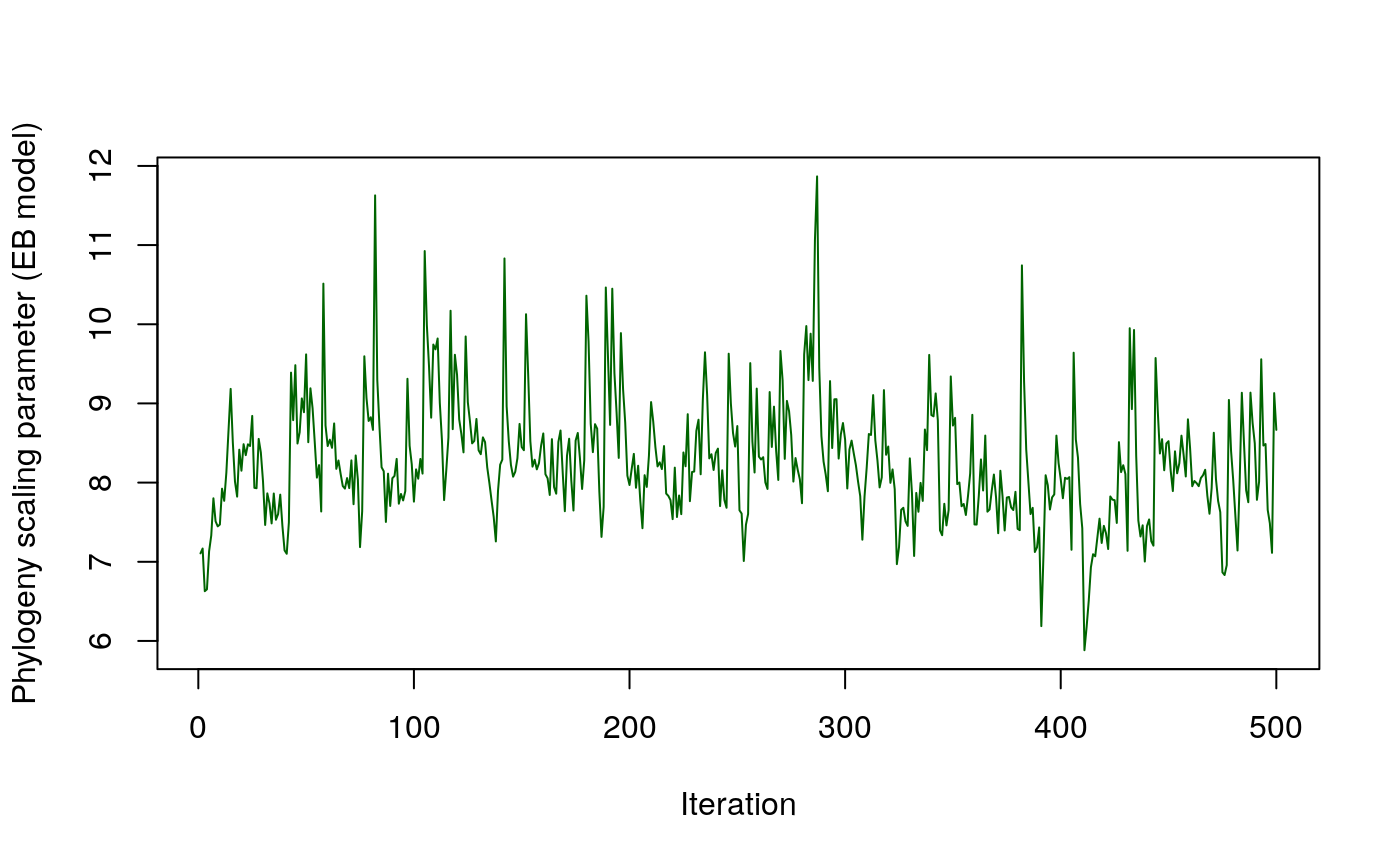
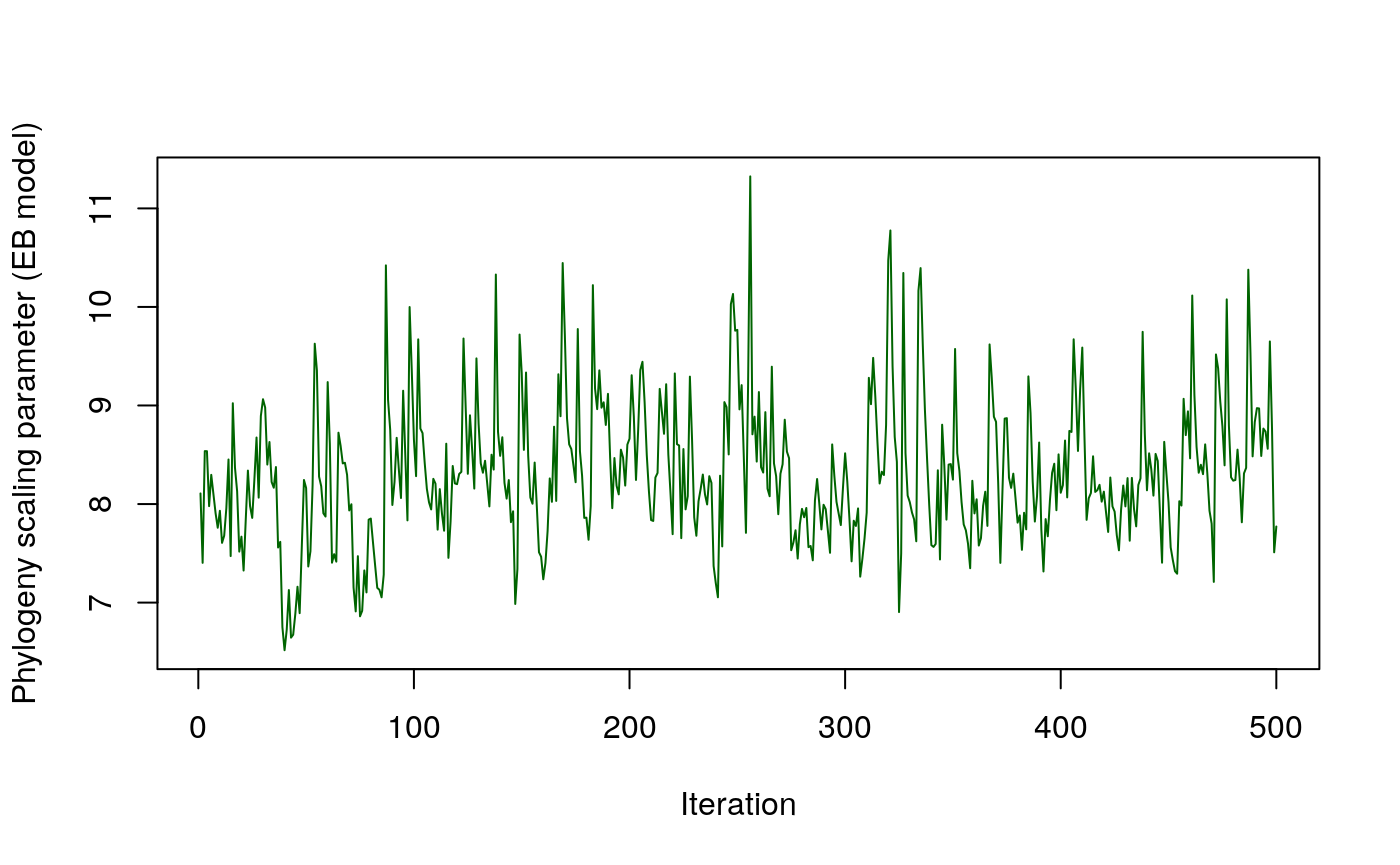
typos

diff --git a/docs/articles/HPprediction.html b/docs/articles/HPprediction.html
@@ -71,7 +71,7 @@
       <h1>Introduction to Elmasri et al.(2020) Host-Parasite Link Prediction Package</h1>
                         <h4 class="author">Maxwell J. Farrell &amp; Mohamad Elmasri</h4>
             
-            <h4 class="date">April 24 2020</h4>
+            <h4 class="date">April 28 2020</h4>
       
       <small class="dont-index">Source: <a href="https://github.com/melmasri/HPprediction/blob/master/vignettes/HPprediction.Rmd"><code>vignettes/HPprediction.Rmd</code></a></small>
       <div class="hidden name"><code>HPprediction.Rmd</code></div>
@@ -145,24 +145,24 @@
 <a class="sourceLine" id="cb6-2" title="2"><span class="co">#&gt; [1] "Running full model..."</span></a>
 <a class="sourceLine" id="cb6-3" title="3"><span class="co">#&gt; [1] "Run for 1000 slices with 500 burn-ins"</span></a>
 <a class="sourceLine" id="cb6-4" title="4"><span class="co">#&gt; [1] "Matrix dimension: 70 x 442"</span></a>
-<a class="sourceLine" id="cb6-5" title="5"><span class="co">#&gt; [1] "slice: 200, at 2020-04-24 14:01:47"</span></a>
-<a class="sourceLine" id="cb6-6" title="6"><span class="co">#&gt; [1] "slice: 400, at 2020-04-24 14:01:51"</span></a>
-<a class="sourceLine" id="cb6-7" title="7"><span class="co">#&gt; [1] "slice: 600, at 2020-04-24 14:01:55"</span></a>
-<a class="sourceLine" id="cb6-8" title="8"><span class="co">#&gt; [1] "slice: 800, at 2020-04-24 14:01:59"</span></a>
-<a class="sourceLine" id="cb6-9" title="9"><span class="co">#&gt; [1] "slice: 1000, at 2020-04-24 14:02:02"</span></a>
+<a class="sourceLine" id="cb6-5" title="5"><span class="co">#&gt; [1] "slice: 200, at 2020-04-28 21:43:02"</span></a>
+<a class="sourceLine" id="cb6-6" title="6"><span class="co">#&gt; [1] "slice: 400, at 2020-04-28 21:43:08"</span></a>
+<a class="sourceLine" id="cb6-7" title="7"><span class="co">#&gt; [1] "slice: 600, at 2020-04-28 21:43:15"</span></a>
+<a class="sourceLine" id="cb6-8" title="8"><span class="co">#&gt; [1] "slice: 800, at 2020-04-28 21:43:21"</span></a>
+<a class="sourceLine" id="cb6-9" title="9"><span class="co">#&gt; [1] "slice: 1000, at 2020-04-28 21:43:28"</span></a>
 <a class="sourceLine" id="cb6-10" title="10"><span class="co">#&gt; [1] "Done!"</span></a>
 <a class="sourceLine" id="cb6-11" title="11"><span class="kw"><a href="https://www.rdocumentation.org/packages/utils/topics/str">str</a></span>(out)</a>
 <a class="sourceLine" id="cb6-12" title="12"><span class="co">#&gt; List of 3</span></a>
 <a class="sourceLine" id="cb6-13" title="13"><span class="co">#&gt;  $ param:List of 6</span></a>
-<a class="sourceLine" id="cb6-14" title="14"><span class="co">#&gt;   ..$ w      : num [1:442, 1:500] 1.57 1.6 1.75 1.7 1.96 ...</span></a>
-<a class="sourceLine" id="cb6-15" title="15"><span class="co">#&gt;   ..$ y      : num [1:70, 1:500] 0.261 6.599 0.579 1.724 3.355 ...</span></a>
-<a class="sourceLine" id="cb6-16" title="16"><span class="co">#&gt;   ..$ eta    : num [1:500] 7.11 7.17 6.63 6.65 7.13 ...</span></a>
+<a class="sourceLine" id="cb6-14" title="14"><span class="co">#&gt;   ..$ w      : num [1:442, 1:500] 1.259 1.248 0.621 1.097 1.335 ...</span></a>
+<a class="sourceLine" id="cb6-15" title="15"><span class="co">#&gt;   ..$ y      : num [1:70, 1:500] 0.441 11.398 1.097 3.013 6.011 ...</span></a>
+<a class="sourceLine" id="cb6-16" title="16"><span class="co">#&gt;   ..$ eta    : num [1:500] 8.11 7.4 8.54 8.54 7.98 ...</span></a>
 <a class="sourceLine" id="cb6-17" title="17"><span class="co">#&gt;   ..$ g      : NULL</span></a>
 <a class="sourceLine" id="cb6-18" title="18"><span class="co">#&gt;   ..$ burn.in: num 500</span></a>
 <a class="sourceLine" id="cb6-19" title="19"><span class="co">#&gt;   ..$ sd     :List of 3</span></a>
-<a class="sourceLine" id="cb6-20" title="20"><span class="co">#&gt;   .. ..$ w  : num [1:442] 2.1 2.03 2.11 2.05 2.04 ...</span></a>
-<a class="sourceLine" id="cb6-21" title="21"><span class="co">#&gt;   .. ..$ y  : num [1:70] 1.09 5.12 1.75 2.6 3.78 ...</span></a>
-<a class="sourceLine" id="cb6-22" title="22"><span class="co">#&gt;   .. ..$ eta: num 0.681</span></a>
+<a class="sourceLine" id="cb6-20" title="20"><span class="co">#&gt;   .. ..$ w  : num [1:442] 1.96 2 2.14 1.98 2.05 ...</span></a>
+<a class="sourceLine" id="cb6-21" title="21"><span class="co">#&gt;   .. ..$ y  : num [1:70] 1.35 6.95 2.27 3.27 4.99 ...</span></a>
+<a class="sourceLine" id="cb6-22" title="22"><span class="co">#&gt;   .. ..$ eta: num 0.808</span></a>
 <a class="sourceLine" id="cb6-23" title="23"><span class="co">#&gt;  $ Z    : num [1:70, 1:442] 0 0 0 0 0 0 0 0 0 0 ...</span></a>
 <a class="sourceLine" id="cb6-24" title="24"><span class="co">#&gt;   ..- attr(*, "dimnames")=List of 2</span></a>
 <a class="sourceLine" id="cb6-25" title="25"><span class="co">#&gt;   .. ..$ : chr [1:70] "Addax_nasomaculatus" "Oryx_gazella" "Hippotragus_equinus" "Hippotragus_niger" ...</span></a>
@@ -199,27 +199,27 @@
 <a href="#identfying-top-predicted-links-with-no-documentation" class="anchor"></a>Identfying top predicted links with no documentation</h3>
 <div class="sourceCode" id="cb11"><pre class="sourceCode r"><code class="sourceCode r"><a class="sourceLine" id="cb11-1" title="1"><span class="kw"><a href="../reference/topPairs.html">topPairs</a></span>(P, out<span class="op">$</span>Z)</a>
 <a class="sourceLine" id="cb11-2" title="2"><span class="co">#&gt;                          Hosts                                Parasites</span></a>
-<a class="sourceLine" id="cb11-3" title="3"><span class="co">#&gt; 28449       Aepyceros_melampus                        Toxoplasma gondii</span></a>
-<a class="sourceLine" id="cb11-4" title="4"><span class="co">#&gt; 22003      Rupicapra_rupicapra                    Rhipicephalus evertsi</span></a>
-<a class="sourceLine" id="cb11-5" title="5"><span class="co">#&gt; 19763      Rupicapra_rupicapra Pestivirus Bovine viral diarrhea virus 1</span></a>
-<a class="sourceLine" id="cb11-6" title="6"><span class="co">#&gt; 27819       Aepyceros_melampus                Teladorsagia circumcincta</span></a>
-<a class="sourceLine" id="cb11-7" title="7"><span class="co">#&gt; 29073      Rupicapra_rupicapra              Trichostrongylus falculatus</span></a>
-<a class="sourceLine" id="cb11-8" title="8"><span class="co">#&gt; 16409       Aepyceros_melampus                    Nematodirus spathiger</span></a>
+<a class="sourceLine" id="cb11-3" title="3"><span class="co">#&gt; 22003      Rupicapra_rupicapra                    Rhipicephalus evertsi</span></a>
+<a class="sourceLine" id="cb11-4" title="4"><span class="co">#&gt; 28449       Aepyceros_melampus                        Toxoplasma gondii</span></a>
+<a class="sourceLine" id="cb11-5" title="5"><span class="co">#&gt; 27819       Aepyceros_melampus                Teladorsagia circumcincta</span></a>
+<a class="sourceLine" id="cb11-6" title="6"><span class="co">#&gt; 29073      Rupicapra_rupicapra              Trichostrongylus falculatus</span></a>
+<a class="sourceLine" id="cb11-7" title="7"><span class="co">#&gt; 16409       Aepyceros_melampus                    Nematodirus spathiger</span></a>
+<a class="sourceLine" id="cb11-8" title="8"><span class="co">#&gt; 19763      Rupicapra_rupicapra Pestivirus Bovine viral diarrhea virus 1</span></a>
 <a class="sourceLine" id="cb11-9" title="9"><span class="co">#&gt; 1843       Rupicapra_rupicapra                       Bacillus anthracis</span></a>
-<a class="sourceLine" id="cb11-10" title="10"><span class="co">#&gt; 10383      Rupicapra_rupicapra                     Impalaia tuberculata</span></a>
-<a class="sourceLine" id="cb11-11" title="11"><span class="co">#&gt; 28835 Tragelaphus_strepsiceros                    Trichostrongylus axei</span></a>
-<a class="sourceLine" id="cb11-12" title="12"><span class="co">#&gt; 28975 Tragelaphus_strepsiceros           Trichostrongylus colubriformis</span></a>
+<a class="sourceLine" id="cb11-10" title="10"><span class="co">#&gt; 28835 Tragelaphus_strepsiceros                    Trichostrongylus axei</span></a>
+<a class="sourceLine" id="cb11-11" title="11"><span class="co">#&gt; 10383      Rupicapra_rupicapra                     Impalaia tuberculata</span></a>
+<a class="sourceLine" id="cb11-12" title="12"><span class="co">#&gt; 27855 Tragelaphus_strepsiceros                Teladorsagia circumcincta</span></a>
 <a class="sourceLine" id="cb11-13" title="13"><span class="co">#&gt;               p</span></a>
-<a class="sourceLine" id="cb11-14" title="14"><span class="co">#&gt; 28449 0.4929885</span></a>
-<a class="sourceLine" id="cb11-15" title="15"><span class="co">#&gt; 22003 0.4886306</span></a>
-<a class="sourceLine" id="cb11-16" title="16"><span class="co">#&gt; 19763 0.4633080</span></a>
-<a class="sourceLine" id="cb11-17" title="17"><span class="co">#&gt; 27819 0.4617923</span></a>
-<a class="sourceLine" id="cb11-18" title="18"><span class="co">#&gt; 29073 0.4591450</span></a>
-<a class="sourceLine" id="cb11-19" title="19"><span class="co">#&gt; 16409 0.4399789</span></a>
-<a class="sourceLine" id="cb11-20" title="20"><span class="co">#&gt; 1843  0.4313757</span></a>
-<a class="sourceLine" id="cb11-21" title="21"><span class="co">#&gt; 10383 0.4274391</span></a>
-<a class="sourceLine" id="cb11-22" title="22"><span class="co">#&gt; 28835 0.4243908</span></a>
-<a class="sourceLine" id="cb11-23" title="23"><span class="co">#&gt; 28975 0.4088494</span></a></code></pre></div>
+<a class="sourceLine" id="cb11-14" title="14"><span class="co">#&gt; 22003 0.4950395</span></a>
+<a class="sourceLine" id="cb11-15" title="15"><span class="co">#&gt; 28449 0.4809607</span></a>
+<a class="sourceLine" id="cb11-16" title="16"><span class="co">#&gt; 27819 0.4697782</span></a>
+<a class="sourceLine" id="cb11-17" title="17"><span class="co">#&gt; 29073 0.4515099</span></a>
+<a class="sourceLine" id="cb11-18" title="18"><span class="co">#&gt; 16409 0.4427870</span></a>
+<a class="sourceLine" id="cb11-19" title="19"><span class="co">#&gt; 19763 0.4418728</span></a>
+<a class="sourceLine" id="cb11-20" title="20"><span class="co">#&gt; 1843  0.4289917</span></a>
+<a class="sourceLine" id="cb11-21" title="21"><span class="co">#&gt; 28835 0.4251196</span></a>
+<a class="sourceLine" id="cb11-22" title="22"><span class="co">#&gt; 10383 0.4174443</span></a>
+<a class="sourceLine" id="cb11-23" title="23"><span class="co">#&gt; 27855 0.4051877</span></a></code></pre></div>
 </div>
 </div>
 <div id="general-approach-to-running-the-model-with-5-fold-cross-validation" class="section level2">

diff --git a/docs/index.html b/docs/index.html
@@ -75,7 +75,7 @@
 <div class="page-header"><h1 class="hasAnchor">
 <a href="#hpprediction" class="anchor"></a>HPprediction</h1></div>
 <p>This package implements the code and method associated with paper</p>
-<p>Elmasri, M., Farrell, M. J., Davies, T. J., &amp; Stephens, D. A. (2020). A hierarchical Bayesian model for predicting ecological interactions using scaled evolutionary relationships. <a href="https://projecteuclid.org/euclid.aoas/1587002672">Annals of Applied Statistics, 14(1), 221-240.</a></p>
+<p>Elmasri, M., Farrell, M. J., Davies, T. J., &amp; Stephens, D. A. (2020). <a href="https://projecteuclid.org/euclid.aoas/1587002672">A hierarchical Bayesian model for predicting ecological interactions using scaled evolutionary relationships</a>. Annals of Applied Statistics, 14(1), 221-240.</p>
 <p><a href="https://melmasri.github.io/HPprediction/">Package website</a></p>
 <div id="installation" class="section level2">
 <h2 class="hasAnchor">

diff --git a/README.md b/README.md
@@ -2,10 +2,11 @@
 
 This package implements the code and method associated with paper
 
-Elmasri, M., Farrell, M. J., Davies, T. J., & Stephens, D. A. (2020). A
+Elmasri, M., Farrell, M. J., Davies, T. J., & Stephens, D. A. (2020). [A
 hierarchical Bayesian model for predicting ecological interactions using
-scaled evolutionary relationships. [Annals of Applied
-Statistics, 14(1), 221-240.](https://projecteuclid.org/euclid.aoas/1587002672)
+scaled evolutionary
+relationships](https://projecteuclid.org/euclid.aoas/1587002672). Annals
+of Applied Statistics, 14(1), 221-240.
 
 [Package website](https://melmasri.github.io/HPprediction/)
 
